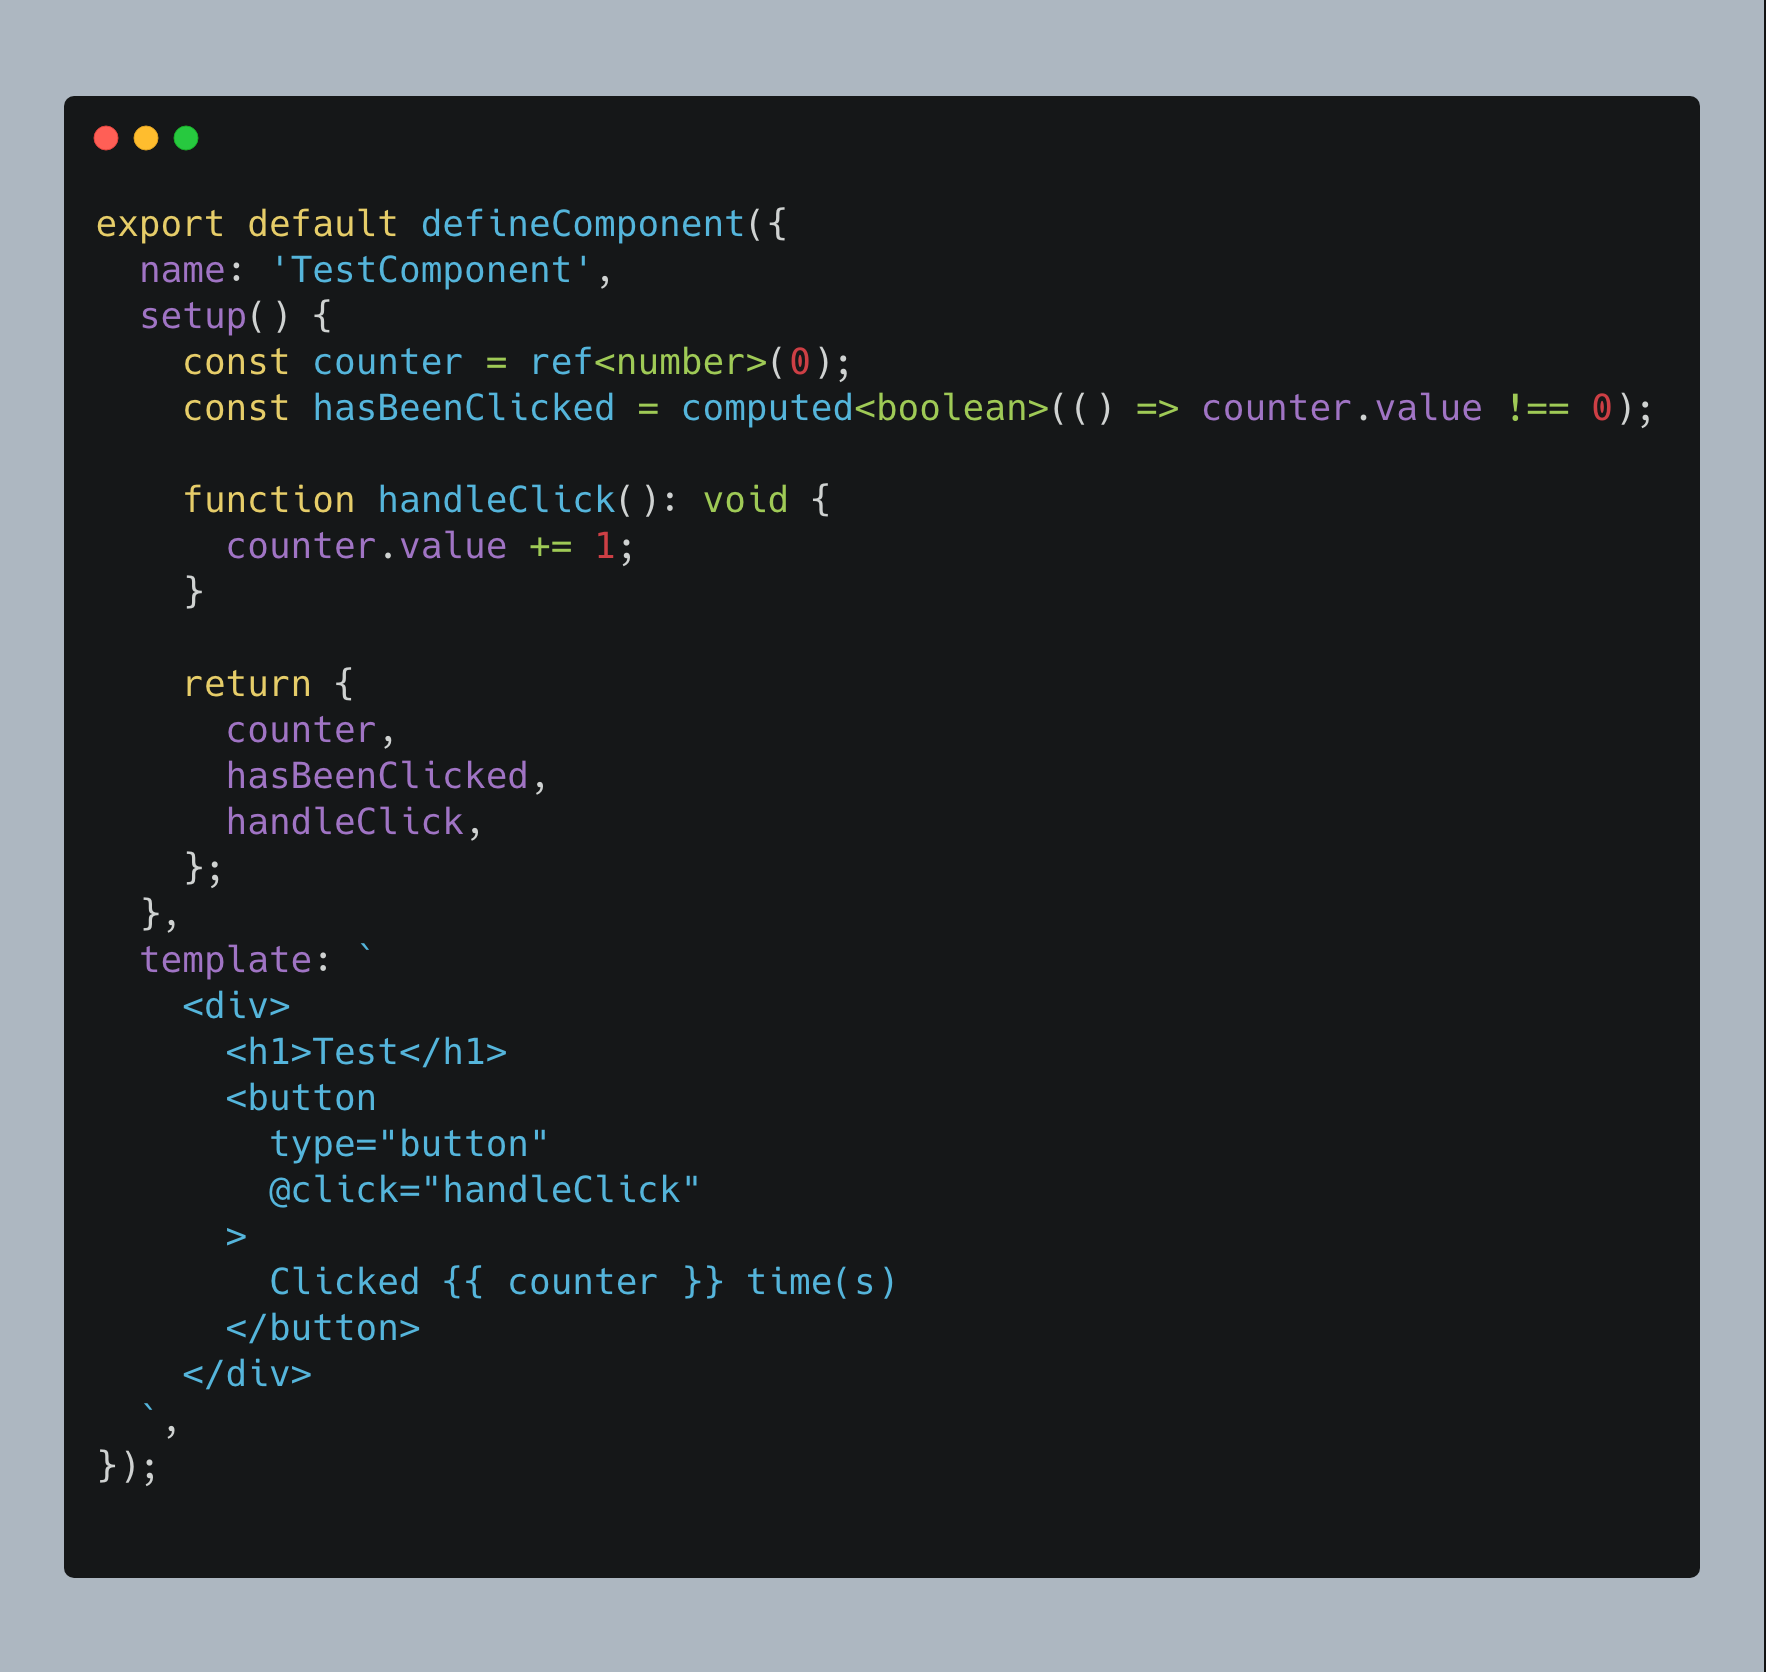
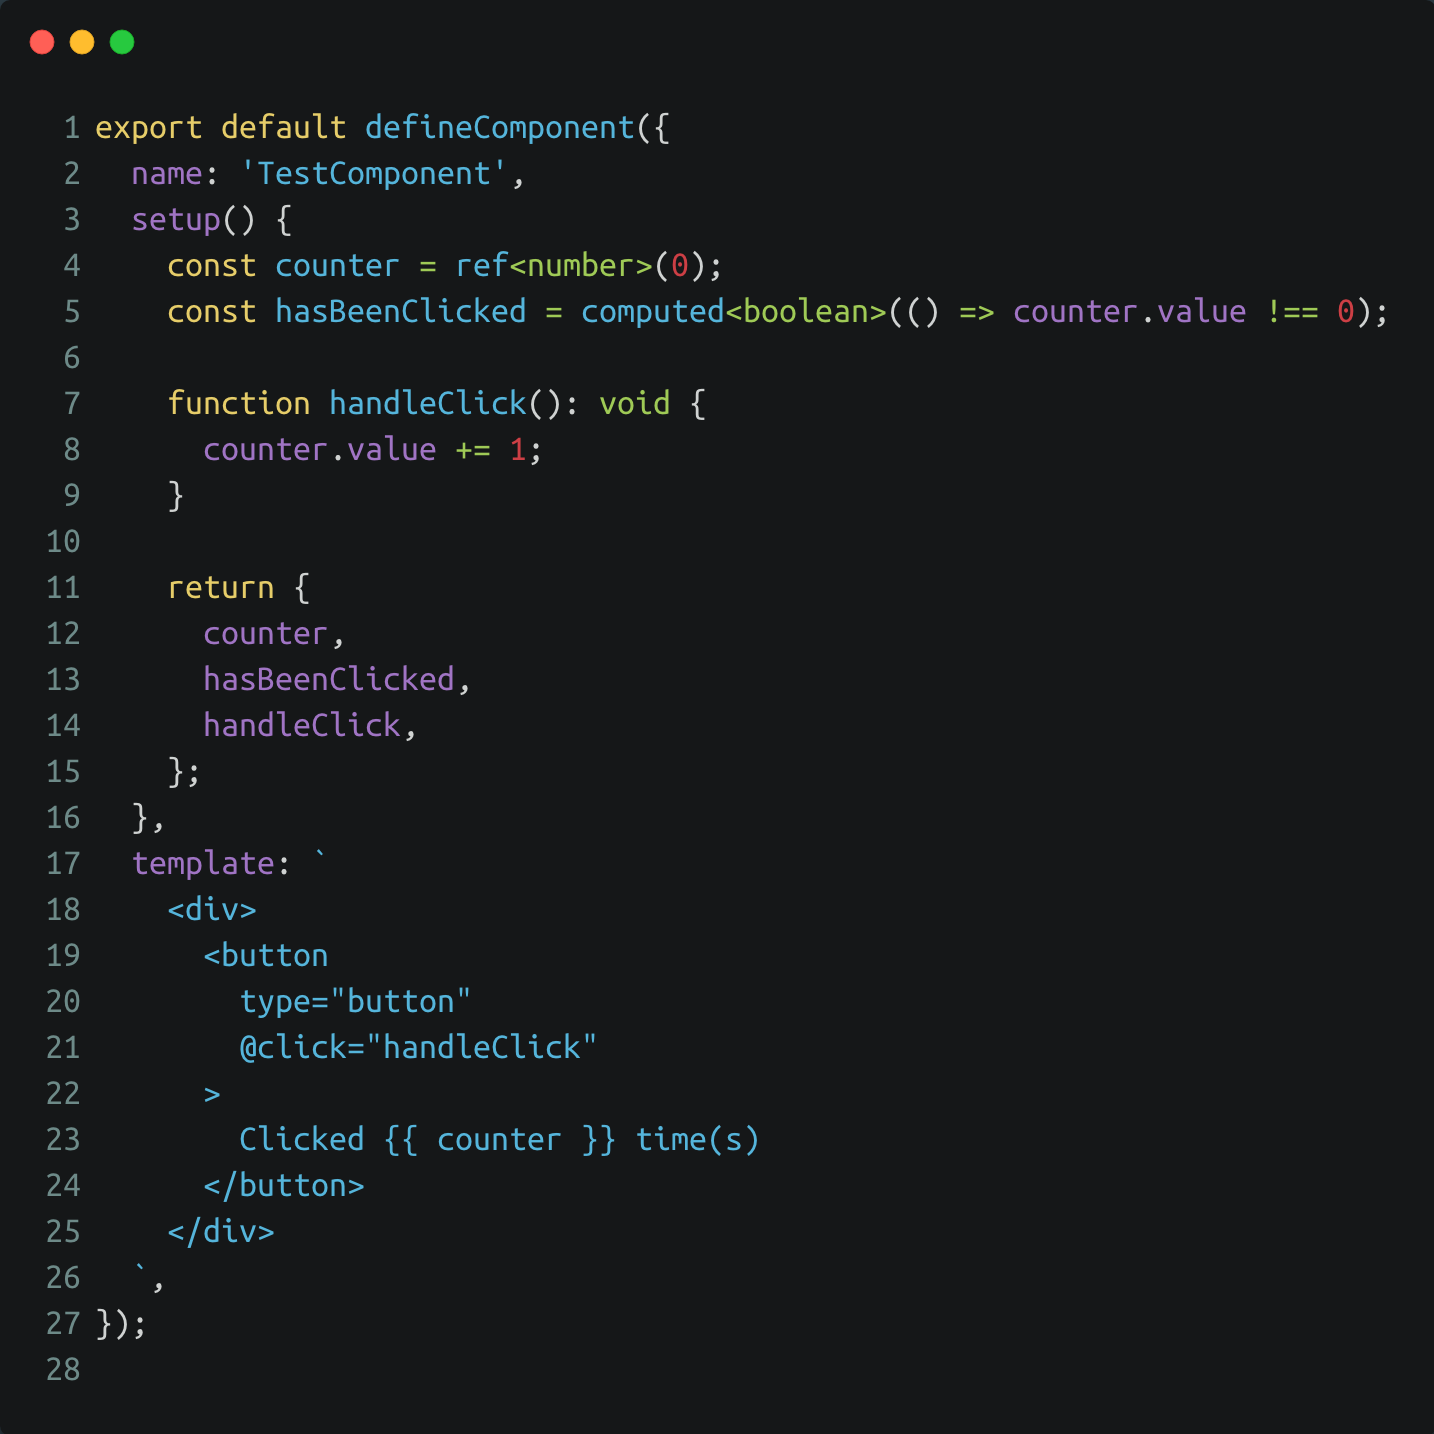
Improved screenshots

Changed region(s): [[0.0, 0.0, 1.0, 1.0], [0.0921, 0.5523, 0.5216, 0.8591], [0.0921, 0.3989, 0.3375, 0.5216]]

diff --git a/code/Readme.md b/code/Readme.md
@@ -1,0 +1,4 @@
+# Code examples
+
+## Carbon now parameters
+https://github.com/mixn/carbon-now-cli/blob/master/src/helpers/default-settings.js
